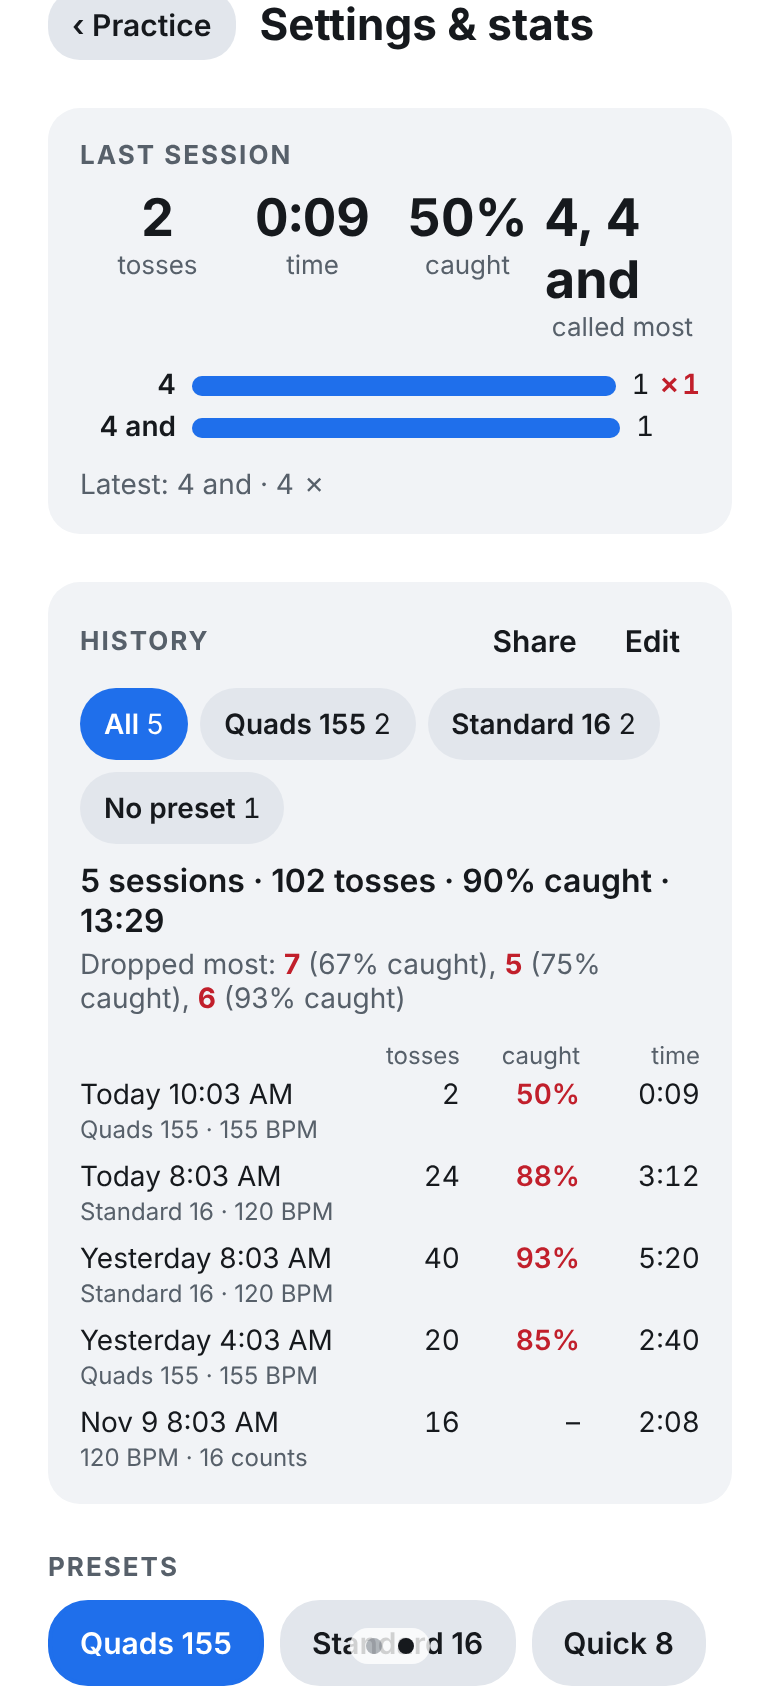
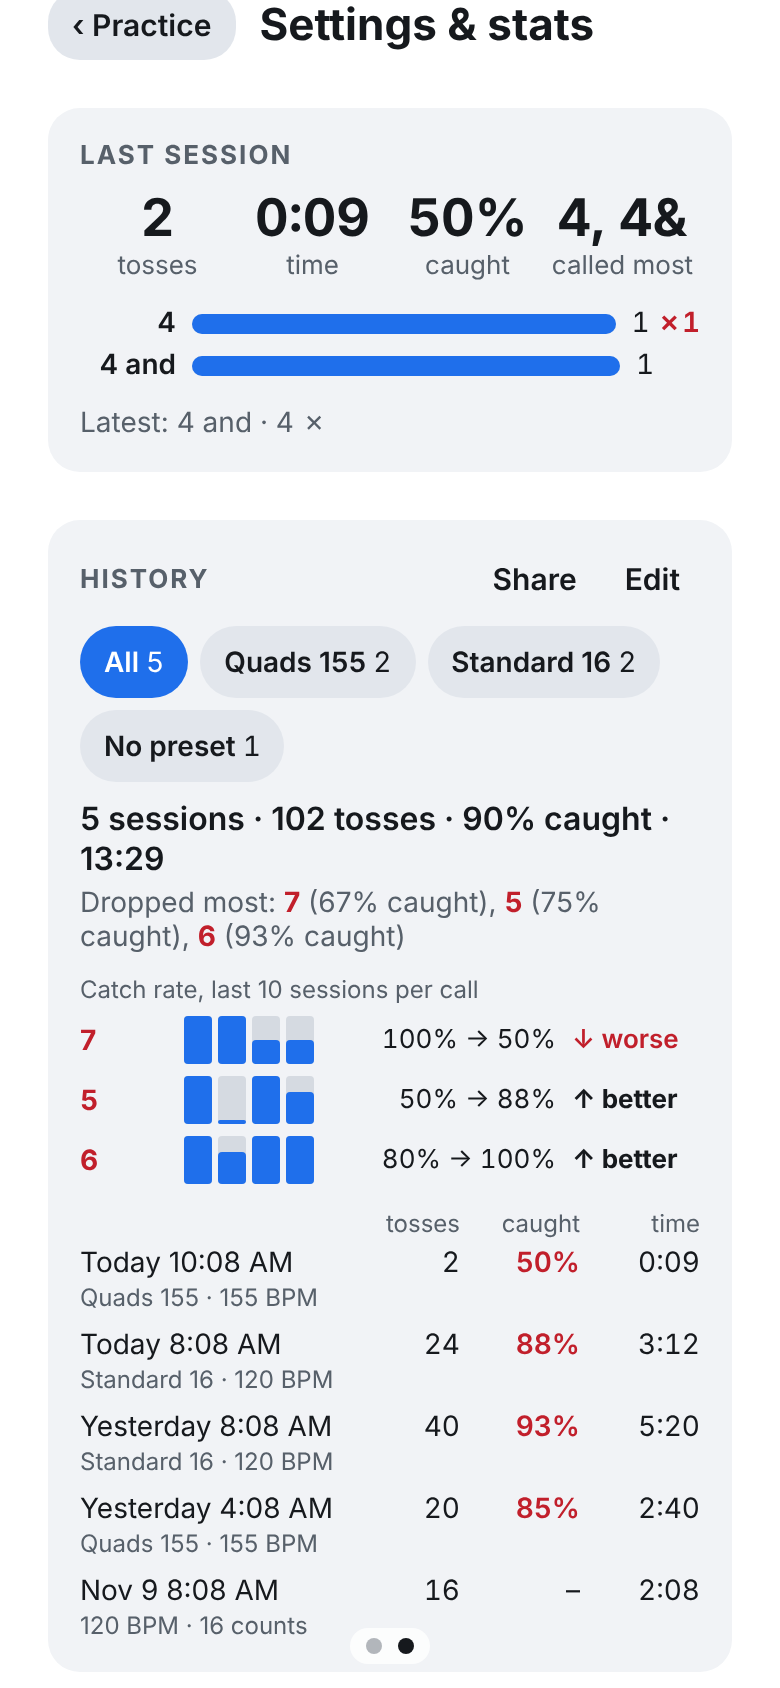
feat(ui): catch-rate trend for the calls dropped most in History
Under "Dropped most", History now shows each of those calls' catch rate
in its last 10 sessions as small bars, the earlier → later catch rate
and whether it's getting better, worse or holding steady. Follows the
History filter. Smoke test checks a dropped call practiced cleanly again
reads "getting better"; screenshots refreshed.

Claude-Session: https://claude.ai/code/session_01UV53BG4EUSr5mnZgoTBTYa

diff --git a/src/components/SessionHistoryCard.tsx b/src/components/SessionHistoryCard.tsx
@@ -6,6 +6,9 @@ import {
   HistoryFilterKey,
   SessionRecord,
   SessionRow,
+  TREND_SESSIONS,
+  TrendDirection,
+  callTrends,
   deletionMessage,
   filterHistory,
   historyFilterLabel,
@@ -56,6 +59,18 @@ function rowLabel(row: SessionRow): string {
   return `${row.date}: ${tosses}${drops}, ${row.duration}, ${drill}${row.bpm} BPM, ${row.phraseLength}-count phrase`;
 }
 
+const DIRECTION_TEXT: Record<TrendDirection, string> = {
+  better: '↑ better',
+  worse: '↓ worse',
+  steady: 'steady',
+};
+
+function directionStyle(styles: ReturnType<typeof getStyles>, direction: TrendDirection) {
+  if (direction === 'better') return styles.trendBetter;
+  if (direction === 'worse') return styles.trendWorse;
+  return null;
+}
+
 /**
  * All-time totals, the calls dropped most and the latest sessions; chips
  * above them narrow everything (and Share) to one preset. "Edit"
@@ -93,6 +108,15 @@ export function SessionHistoryCard({
   const summary = useMemo(
     () => summarizeHistory(shown, nowMs, expanded ? MANY_ROWS : FEW_ROWS),
     [shown, nowMs, expanded],
+  );
+  // How the calls dropped most are doing lately (follows the filter).
+  const trends = useMemo(
+    () =>
+      callTrends(
+        shown,
+        summary.hardest.map((c) => c.call),
+      ),
+    [shown, summary.hardest],
   );
   const editable = Boolean(onDelete || onClear);
   if (history.length === 0 && !editing && !undo) return null;
@@ -253,6 +277,39 @@ export function SessionHistoryCard({
               ))}
             </Text>
           ) : null}
+          {trends.length > 0 ? (
+            <View style={styles.trends} testID="history-trends">
+              <Text style={styles.trendsTitle}>
+                Catch rate, last {TREND_SESSIONS} sessions per call
+              </Text>
+              {trends.map((trend) => (
+                <View
+                  key={trend.call}
+                  style={styles.trendRow}
+                  accessible
+                  accessibilityLabel={trend.accessibilityLabel}
+                >
+                  <Text style={styles.trendCall}>{trend.label}</Text>
+                  <View style={styles.trendBars}>
+                    {trend.points.map((p) => (
+                      <View key={p.startedAt} style={styles.trendSlot}>
+                        <View
+                          style={[
+                            styles.trendBar,
+                            { height: `${Math.max(8, Math.round(p.rate * 100))}%` },
+                          ]}
+                        />
+                      </View>
+                    ))}
+                  </View>
+                  <Text style={styles.trendSummary}>{trend.summary}</Text>
+                  <Text style={[styles.trendDirection, directionStyle(styles, trend.direction)]}>
+                    {DIRECTION_TEXT[trend.direction]}
+                  </Text>
+                </View>
+              ))}
+            </View>
+          ) : null}
 
           <View style={styles.legend} importantForAccessibility="no-hide-descendants">
             <Text style={[styles.date, styles.legendText]} />
@@ -396,6 +453,30 @@ const getStyles = themed((t: Theme) =>
     filterCount: { fontWeight: '400', fontVariant: ['tabular-nums'] },
     hardest: { fontSize: 14, color: t.textMuted, marginTop: 4 },
     hardestCall: { fontWeight: '700', color: t.dangerText },
+    trends: { marginTop: 10, gap: 6 },
+    trendsTitle: { fontSize: 12, color: t.textMuted },
+    trendRow: { flexDirection: 'row', alignItems: 'center', gap: 8 },
+    trendCall: { width: 44, fontSize: 14, fontWeight: '700', color: t.dangerText },
+    trendBars: { flex: 1, flexDirection: 'row', alignItems: 'flex-end', gap: 3, height: 24 },
+    trendSlot: {
+      flex: 1,
+      maxWidth: 14,
+      height: '100%',
+      justifyContent: 'flex-end',
+      borderRadius: 2,
+      backgroundColor: t.track,
+    },
+    trendBar: { width: '100%', borderRadius: 2, backgroundColor: t.primary },
+    trendSummary: {
+      width: 104,
+      textAlign: 'right',
+      fontSize: 13,
+      color: t.text,
+      fontVariant: ['tabular-nums'],
+    },
+    trendDirection: { width: 64, fontSize: 13, fontWeight: '600', color: t.textMuted },
+    trendBetter: { color: t.text, fontWeight: '700' },
+    trendWorse: { color: t.dangerText },
     rows: { marginTop: 4, gap: 8 },
     row: { flexDirection: 'row', alignItems: 'center', gap: 8 },
     rowInfo: { flex: 1, flexDirection: 'row', alignItems: 'flex-start', gap: 8 },

diff --git a/e2e/smoke.js b/e2e/smoke.js
@@ -361,6 +361,40 @@ async function main() {
     );
     await filterChip('all').click();
 
+    // 5d2. Catch-rate trend: the dropped call practiced again, cleanly, reads "getting better".
+    const historyBefore = await page.evaluate(() => {
+      const json = localStorage.getItem('guardrr.history');
+      const stored = JSON.parse(json);
+      const dropped = stored.sessions.find((r) => r.drops > 0);
+      const droppedCall = Object.keys(dropped.timesDropped)[0];
+      stored.sessions.unshift({
+        startedAt: Date.now(),
+        durationMs: 60_000,
+        bpm: 120,
+        phraseLength: 16,
+        tosses: 4,
+        drops: 0,
+        timesCalled: { [droppedCall]: 4 },
+        timesDropped: {},
+      });
+      localStorage.setItem('guardrr.history', JSON.stringify(stored));
+      return json;
+    });
+    await page.reload();
+    await page.getByRole('button', { name: 'Start practice' }).waitFor();
+    const trendRow = page.getByLabel(/: caught 0%, then 100%, over 2 sessions: getting better$/);
+    check(
+      'History shows the catch-rate trend of a dropped call',
+      (await trendRow.count()) === 1 && (await page.getByText('0% → 100%').isVisible()),
+      await page
+        .getByTestId('history-trends')
+        .textContent()
+        .catch(() => 'no trends'),
+    );
+    await page.evaluate((json) => localStorage.setItem('guardrr.history', json), historyBefore);
+    await page.reload();
+    await page.getByRole('button', { name: 'Start practice' }).waitFor();
+
     // 5e. History: delete a session, undo it, then clear all (asks first) and reload.
     await page.getByTestId('history-edit').click();
     await page.getByRole('button', { name: /^Delete session Today/ }).click();
